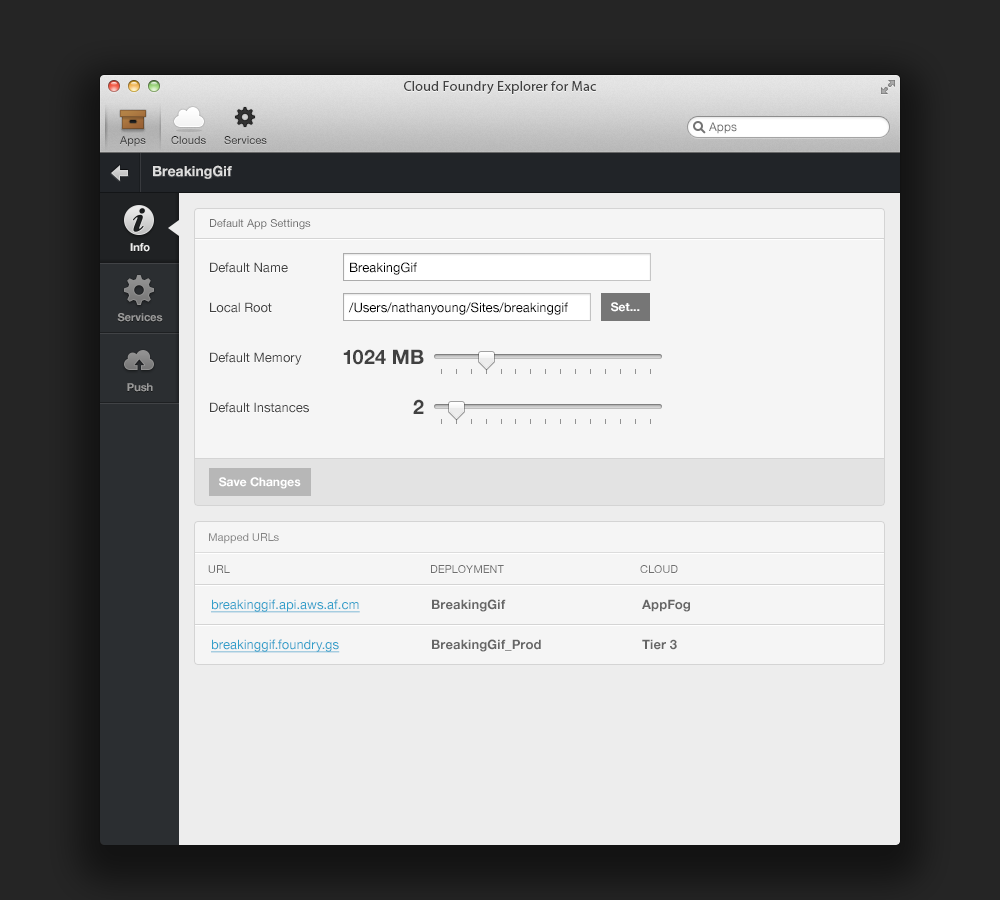
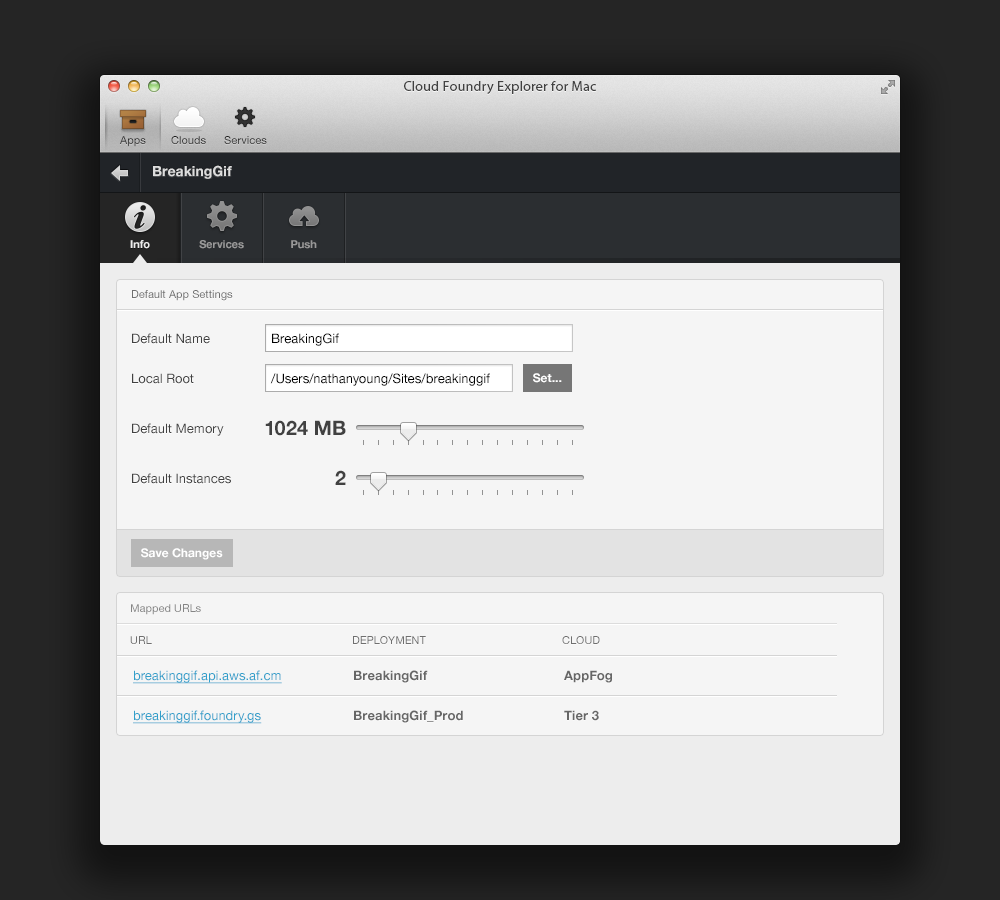
New horizontal sub nav tabs and removal of search input

diff --git a/design/index.html b/design/index.html
@@ -382,7 +382,7 @@
 				<div class="row">
 					<div class="span12">
 						<div class="comp">
-							<div class="comp-label">Services View</div>
+							<div class="comp-label">First-Run Services View</div>
 							<img src="img/services/1_CloudFoundryExplorer_Services.png" alt="Services View" width="1000" height="900" />
 						</div>
 					</div>
@@ -390,13 +390,13 @@
 				
 				<div class="row">
 					<div class="span8 offset1">
-						<p>First run will have a default set of service types available for users to bind to applications.</p>
+						<p>First run displays an empty list.</p>
 					</div>
 				</div>
 				<div class="row">
 					<div class="span12">
 						<div class="comp">
-							<div class="comp-label">New Service Dialog</div>
+							<div class="comp-label">Services In Use</div>
 							<img src="img/services/2_CloudFoundryExplorer_Services.png" alt="New Service Dialog" width="1000" height="900" />
 						</div>
 					</div>
@@ -404,17 +404,25 @@
 				
 				<div class="row">
 					<div class="span8 offset1">
-						<p>The "Add Service Type" dialog allows users to add additional service types and versions to their Services library.</p>
+						<p>Services that are currently in use by apps. </p>
 					</div>
 				</div>
+				
 				<div class="row">
 					<div class="span12">
 						<div class="comp">
-							<div class="comp-label">New Service Dialog: Custom</div>
-							<img src="img/services/3_CloudFoundryExplorer_Services.png" alt="New Service Dialog: Custom" width="1000" height="900" />
+							<div class="comp-label">Service Detail</div>
+							<img src="img/services/3_CloudFoundryExplorer_Services.png" alt="Service Detail" width="1000" height="900" />
 						</div>
 					</div>
 				</div>
+				
+				<div class="row">
+					<div class="span8 offset1">
+						<p>Selecting a service displays list of apps currently using the service. </p>
+					</div>
+				</div>
+
 				
 				<div class="row">
 					<div class="span8 offset1">
